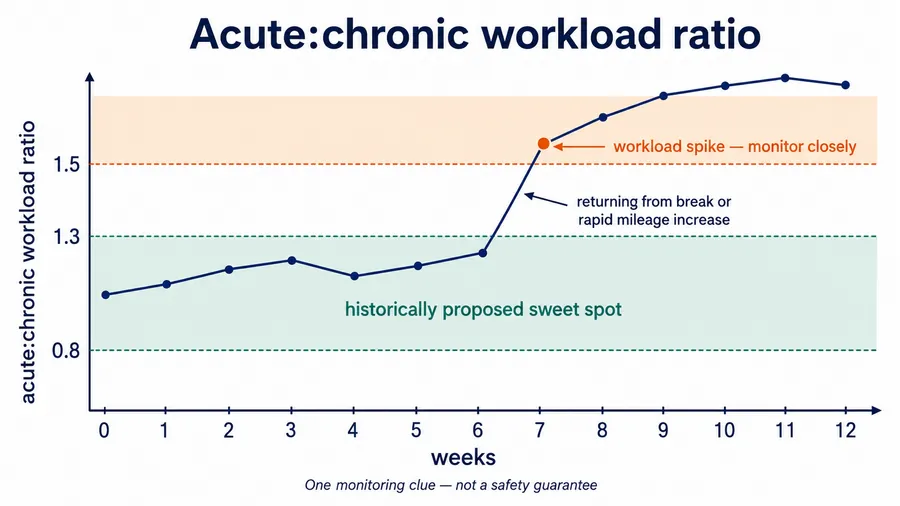
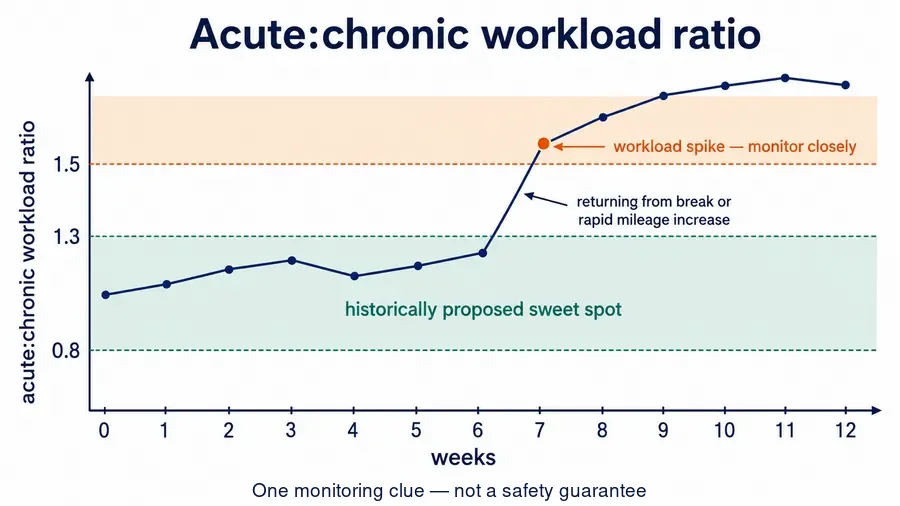
Land 4 of 5 from the B3/B4 correction delivery
ChatGPT returned both batches in one zip. Mechanically the cleanest delivery
of the project: correct format, dimensions, ratio and folder on all five, all
inside the size budget, no slivers.

Landed glenohumeral-anatomy, bankart-hill-sachs, mandible-ring-anatomy and the
acwr-graph footer. Each checked with the stroke-merge test at 343px against its
own predecessor rather than by eye - "anterior-inferior labrum" goes from merged
blobs to resolvable letterforms, and the ACWR footer from small grey italic to
upright and readable. Browser-verified at 375px: all render, 0 placeholders,
0 console errors, 0 failed requests, no overflow, each displayed at exactly
343px.

Held muscle-strains-two-joint-muscles-map. Its briefed fix is correct - the
gracilis line is legible now - but the delivery also replaced the hamstrings
label with a four-line block naming semitendinosus, semimembranosus and biceps
femoris. Those appear zero times in all three bands, so there is no band where
they belong, and a four-line addition runs against the point of a batch that
exists to reduce small text. Held on scope, not quality; redo note written.

Reconciled two JSON descriptions to the delivered art, including two details
that were already inaccurate before this batch: the mandible card never had the
dashed second fracture or the curved force-transmission arrow its description
claimed.

Bankart kept four labels instead of cutting to two and was accepted anyway -
[…]

Changed region(s): [[0.28, 0.9486, 0.7156, 1.0]]

diff --git a/docs/briefs/B4-redo-muscle-strains.md b/docs/briefs/B4-redo-muscle-strains.md
@@ -1,0 +1,76 @@
+# Redo — `muscle-strains-two-joint-muscles-map.webp` (one small change)
+
+**Almost all of this is right. One thing needs backing out.**
+
+The B3/B4 delivery of 2026-08-15 landed four of five files. This one was **held**,
+and it is held for a scope reason, not a quality one — the art is good and the
+line I asked you to fix is fixed correctly.
+
+- Unit: `muscle-strains.json` (grade band **9-10**) · 4:3 (900 × 675)
+- Folder: `public/images/units/muscle-strains/`
+
+## What you got right — keep all of it
+
+**The briefed fix is done.** *"gracilis crosses hip + knee"* is now a full-size,
+single-tier label instead of a small grey sub-line, and it passes the 343 px
+stroke-merge test cleanly. That was the whole ask, and it works.
+
+## What needs backing out
+
+The **BACK** figure's hamstring label was changed from `hamstrings` to:
+
+> **Hamstring muscles**
+> Semitendinosus
+> Semimembranosus
+> Biceps femoris (long head)
+
+**Please revert that to the single label `hamstrings`** and delete the three
+muscle names.
+
+**Why** — and it is not that they are wrong, because they are correct anatomy:
+
+1. **Those three names appear zero times in the entire strand.** Not in the 7-8
+   unit, not in this 9-10 unit, and **not even in the 11-12 unit.** Checked
+   directly: `semitendinosus` ×0, `semimembranosus` ×0, `biceps femoris` ×0
+   across all three files. There is no band where this card would be the right
+   place for them. A student meets three Latin words the lesson never explains.
+2. **This band is deliberately not that deep.** The three grade bands are a hard
+   contract in this project — 9-10 is "moderate depth", and individual muscle-head
+   names sit above even the 11-12 unit's level.
+3. **It runs against the point of the batch.** B3, B4 and B5 all exist to *reduce*
+   the amount of small text on cards displayed at 343 px. This one added a
+   four-line block.
+
+The B4 brief did say to change the one named line and leave everything else — but
+the reason is worth having rather than just the rule, which is why it is spelled
+out above.
+
+## Also worth a quick check
+
+The base figure changed from the previous plain grey body outline to a fully
+detailed musculature render. That is **fine and can stay** — it reads well at
+343 px and the highlighted muscles are clearer than before. Just confirming it was
+intentional rather than a different source file picked up by accident.
+
+One small thing if it is easy: `gracilis crosses hip + knee` is now set *larger*
+than `groin/adductors` directly above it, which inverts the hierarchy a little.
+Matching them, or making the gracilis line slightly smaller than the main label
+while staying well clear of the old sub-line size, would tidy it. **Not a blocker
+— do not let this hold the file.**
+
+## Everything else on the card stays exactly as delivered
+
+Both figures, the red muscle highlighting, the teal target dots, the FRONT / BACK
+headings, and the `rectus femoris`, `groin/adductors` and `gastrocnemius` labels.
+
+## Standing rules
+
+WebP · same filename and folder · 4:3 at 900 × 675 · **30–60 KB** (your delivery
+was 37.8 KB, comfortably fine) · no logo or watermark · full-frame · ≥ 12 px clean
+margin on every edge · no photographs or identifiable people.
+
+**Ship a 343 px render alongside the source file** — that was asked for in B3/B4
+and did not come through, and it is the fastest way for both of us to confirm a
+legibility fix actually worked.
+
+**Send it inside a zip**, with a PNG copy as a fallback.

diff --git a/docs/HANDOFF.md b/docs/HANDOFF.md
@@ -795,6 +795,53 @@ duplication of prose, not extra teaching), plus two cards where a single line
 is the only thing that fails and that line is the only one the prose does not
 carry. Brief those two separately from the three.
 
+✅ **B3 + B4 DELIVERED AND LANDED 4 of 5 (2026-08-15).** ChatGPT returned both
+batches in a single zip despite being briefed separately. Mechanically the
+cleanest delivery of the project: all five correct format, dimensions, ratio and
+folder, all inside the 30–60 KB budget, no slivers, no wrong-topic files.
+
+**Landed (4):** `shoulder-injuries-glenohumeral-anatomy`,
+`shoulder-injuries-bankart-hill-sachs`, `dental-trauma-mandible-ring-anatomy`,
+`overuse-injuries-acwr-graph`. Each verified with the stroke-merge test at 343 px
+against its own predecessor — the old/new pairs are unambiguous, e.g.
+"anterior-inferior labrum" goes from merged blobs to fully resolvable letterforms.
+Browser-verified at 375 px: all render, 0 placeholders, 0 console errors, 0 failed
+requests, no horizontal overflow, each displayed at exactly **343 px** (which also
+re-confirms the display-size arithmetic this whole effort rests on).
+
+**Held (1):** `muscle-strains-two-joint-muscles-map` — see
+`docs/briefs/B4-redo-muscle-strains.md`. The briefed fix was done correctly (the
+gracilis line is now legible), but the delivery also **replaced the `hamstrings`
+label with a four-line block naming semitendinosus, semimembranosus and biceps
+femoris (long head)** on a 9-10 card. Those three names appear **×0 in all three
+bands** — there is no band where they belong — and adding a four-line block runs
+directly against the purpose of the batch. Held on scope, not quality.
+
+⚠ **Two lessons from this delivery, both worth carrying forward.**
+
+1. **Additions get dropped when bundled with deletions.** Both B3 anatomy cards
+   executed every deletion and enlargement and **skipped the one label each brief
+   asked to ADD** — `glenohumeral-anatomy` still does not name the shallow socket,
+   and `mandible-ring-anatomy` still does not label the ring. Both were landed
+   anyway because the prose carries both concepts heavily ("shallow socket" is the
+   9-10 section's own words; "ring" ×28 in the 11-12 prose), so the omission costs
+   nothing here. **But next time, put additions in their own numbered section, not
+   in a list of removals.**
+2. **A brief specifies an end, and the author may reach it another way — judge the
+   end.** B3 told them to cut `bankart-hill-sachs` from four leader labels to two.
+   They kept all four and simply enlarged them. That was accepted, because the
+   acceptance test is legibility at 343 px and it passes decisively. The
+   fewer-labels instruction was a *means*; the handoff's own audit had said the
+   labels were safe to remove, not that removing them was required.
+
+**Browser-test gotcha, new:** asserting `img.complete && naturalWidth > 0`
+immediately after `networkidle` reports images below the fold as broken — the app
+lazy-loads them. The first run flagged five "broken" images including three files
+that had not been touched, with **0 failed requests and 0 console errors**, which
+is the tell. **Scroll the full page height and await `img.decode()` before
+asserting.** Same family as the QA sweep's "assert on decoded state, never on key
+presence" lesson.
+
 ✅ **Both briefs are written and committed (2026-08-15) — the remaining work is
 the user's ChatGPT handoff, not a session task:**
 
